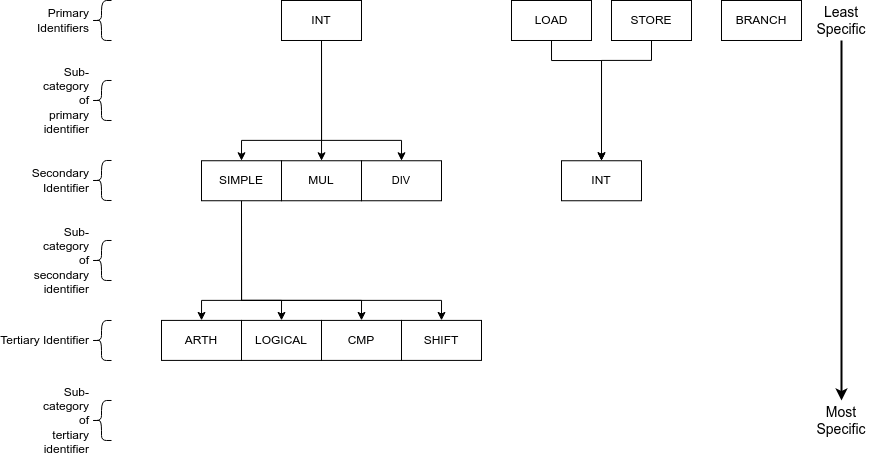
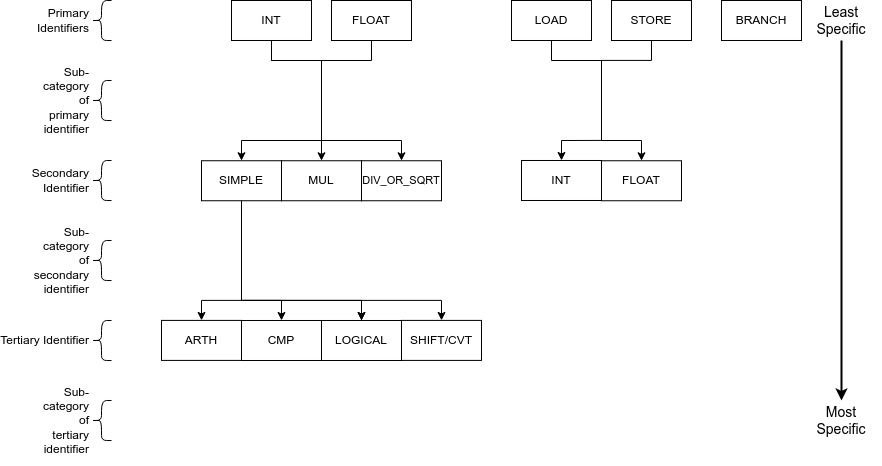
Docs update

diff --git a/docs/sphinx/developer/arch/supported/riscv.rst b/docs/sphinx/developer/arch/supported/riscv.rst
@@ -1,7 +1,7 @@
 RISCV
 =======
 
-SimEng provides an almost complete implementation of the rv64ima architecture, as well as being capable of handling some supervisor call (syscall) exceptions via basic system call emulation. This is sufficient to run many simple single threaded programs that have been statically compiled with the standard library.
+SimEng provides an almost complete implementation of the rv64imafd architecture, as well as being capable of handling some supervisor call (syscall) exceptions via basic system call emulation. This is sufficient to run many simple single threaded programs that have been statically compiled with the standard library.
 
 .. contents:: Contents
 
@@ -21,6 +21,8 @@ The logic held in ``src/lib/arch/riscv/Instruction_decode.cc`` is primarily asso
 - ``isAtomic_``, is an atomic operation.
 - ``isLogical_``, is a logical operation e.g bitwise and.
 - ``isCompare_``, is a compare operation.
+- ``isFloat_``, is a floating point operation.
+- ``isConvert_``, is a floating point to integer conversion operation.
 
 .. _riscv-instruction-groups:
 
@@ -34,6 +36,9 @@ Through a combination of the above identifiers, an instruction can be allocated 
 The above diagram follows the same structure as :ref:`AArch64 instruction groups <aarch64-instruction-groups>`. Each level of the diagram represents a different scope of instructions supported, the primary/top-level encapsulates the most instructions whilst the tertiary/bottom-level the least. Each of the above levels is combined through the ``_`` character, working from the top level of the diagram to the bottom. Lower levels are not required if a larger set of instructions is desired. For example the instruction group ``INT`` is valid and would encapsulate all instructions that perform integer operations, while ``INT_MUL`` is also valid but would only encapsulate the 5 multiply instructions.
 
 This hierarchy-based naming convention has been chosen to provide the user with greater control over the number of instructions grouped under one name, whilst also remaining intuitive. A variety of combinations/instruction scopes can be defined through this method and only uses a small set of easily interpreted operation descriptions.
+
+        .. Note::
+                INT_SIMPLE_CVT and FLOAT_SIMPLE_SHIFT are both invalid instruction groups
 
 If the supplied instruction groups don't provide a small enough scope, a Capstone opcode can be used instead (found in ``SimEng/build/_deps/capstone-lib-src/arch/RISCV/RISCVGenInstrInfo.inc``) with the format ``~{CAPSTONE_OPCODE}``.
 
